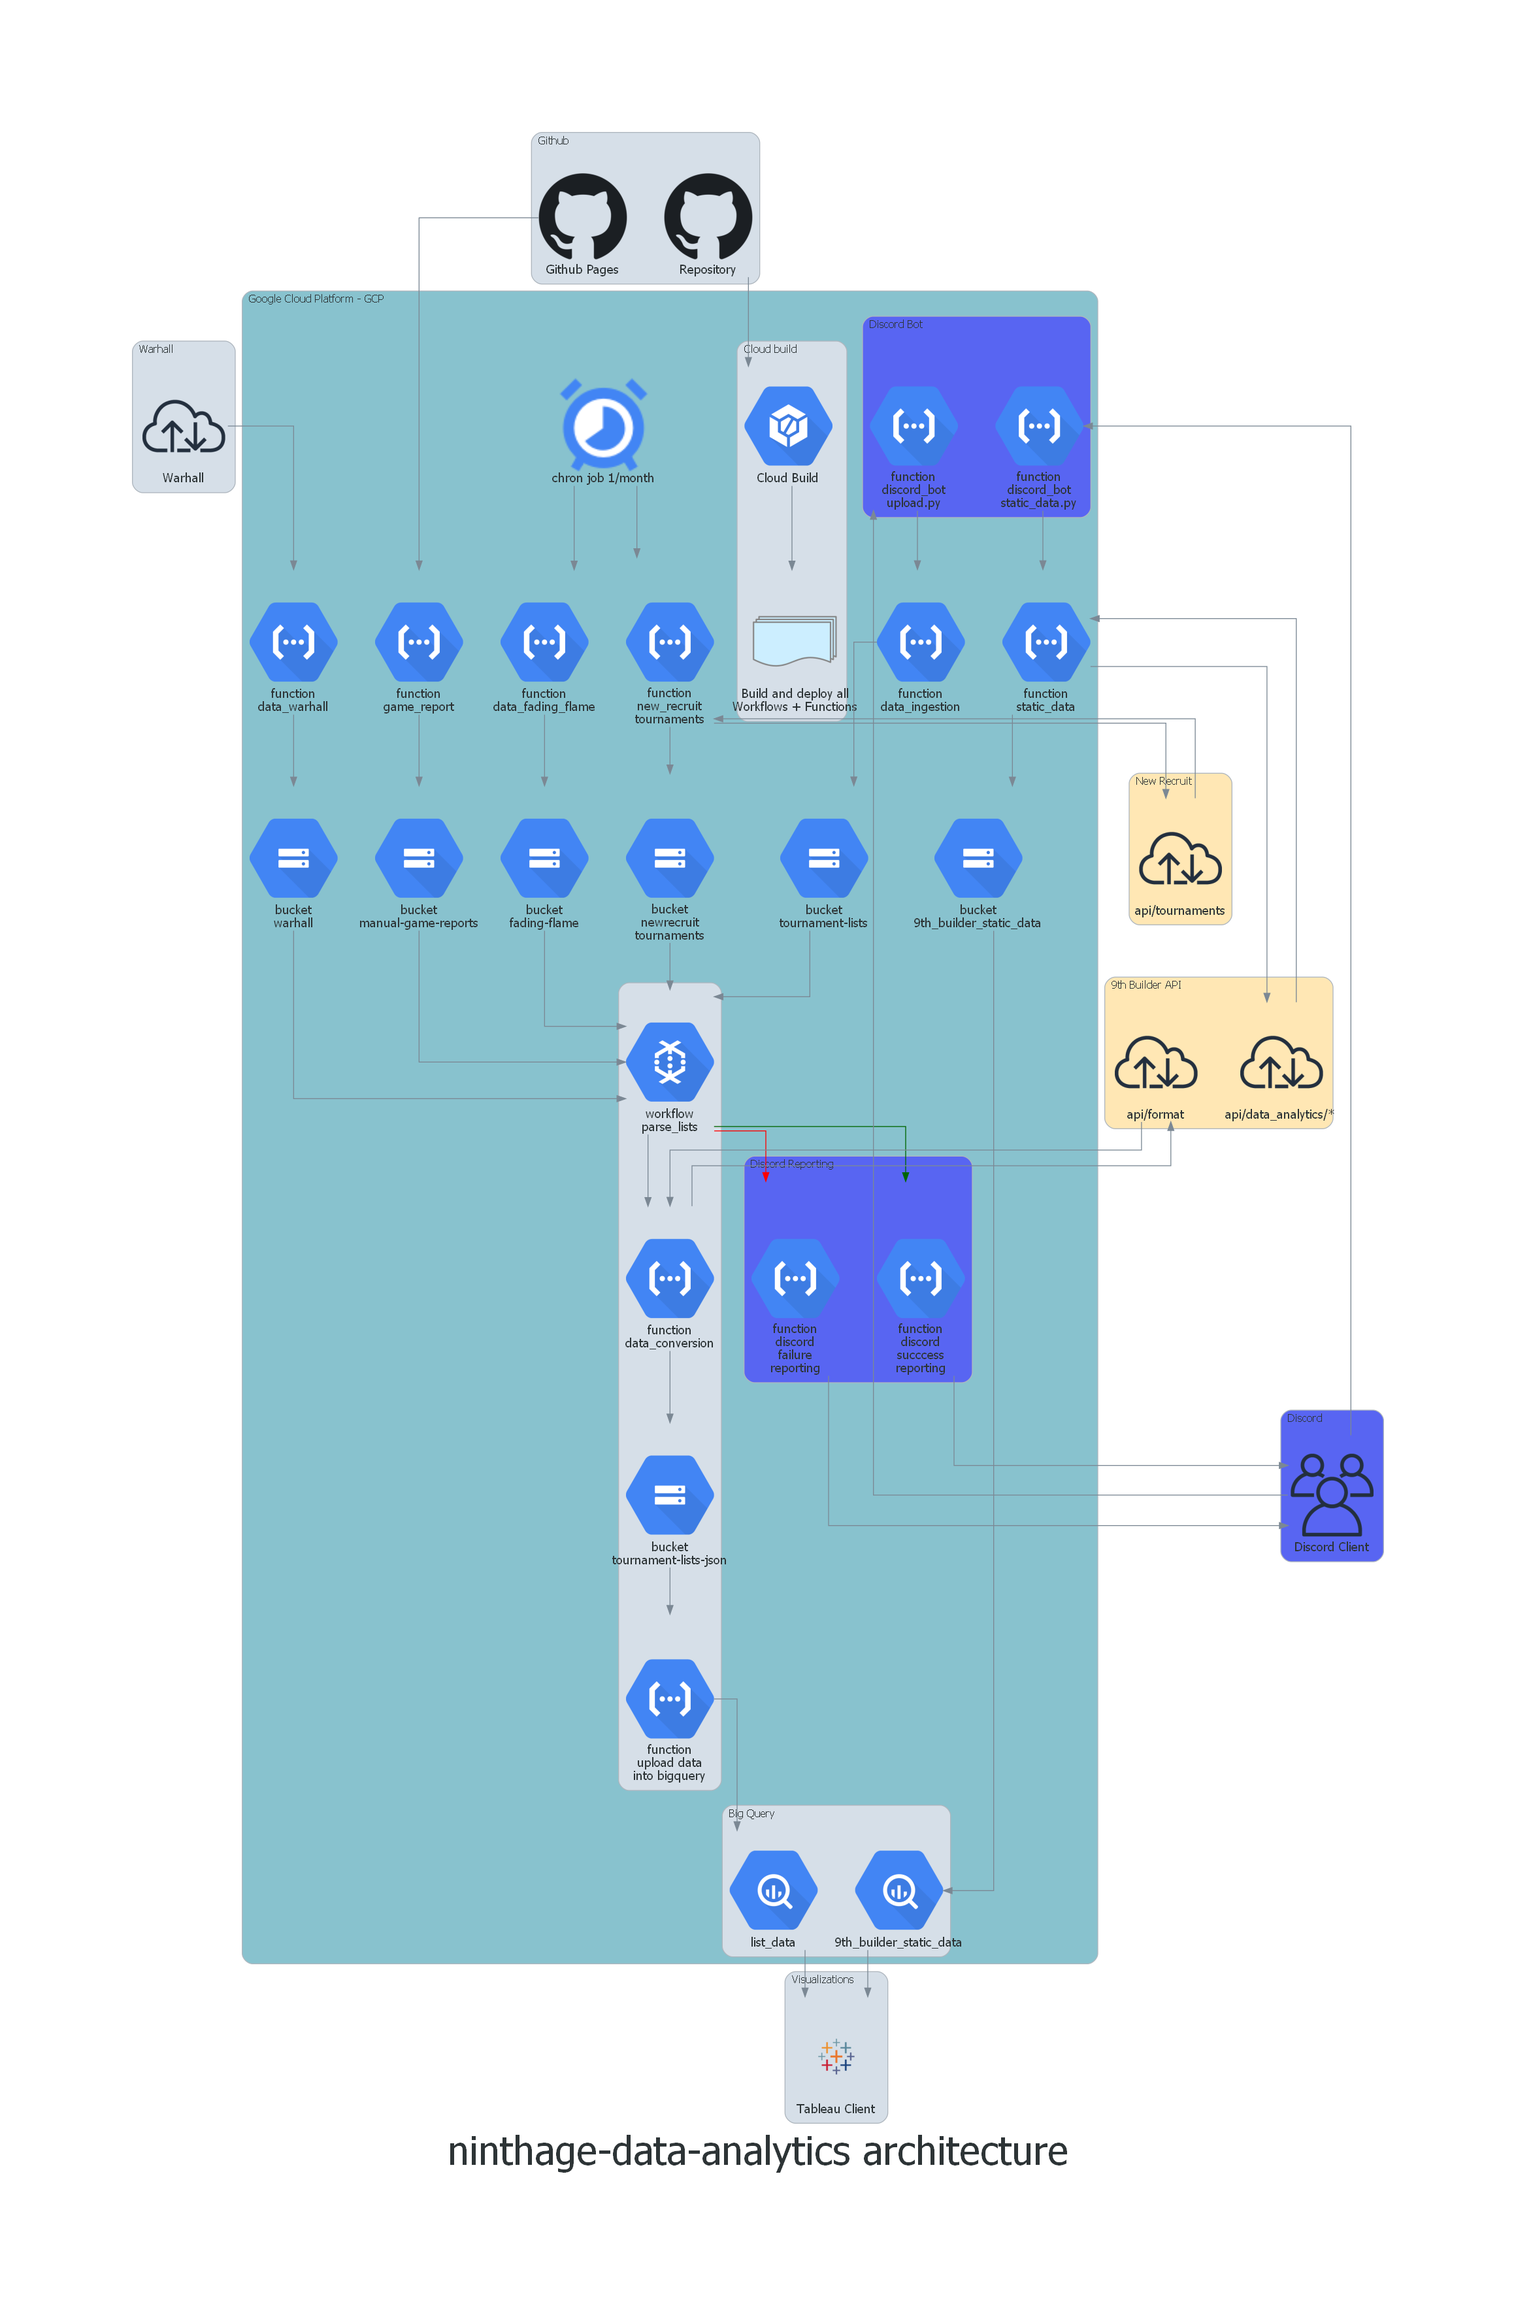
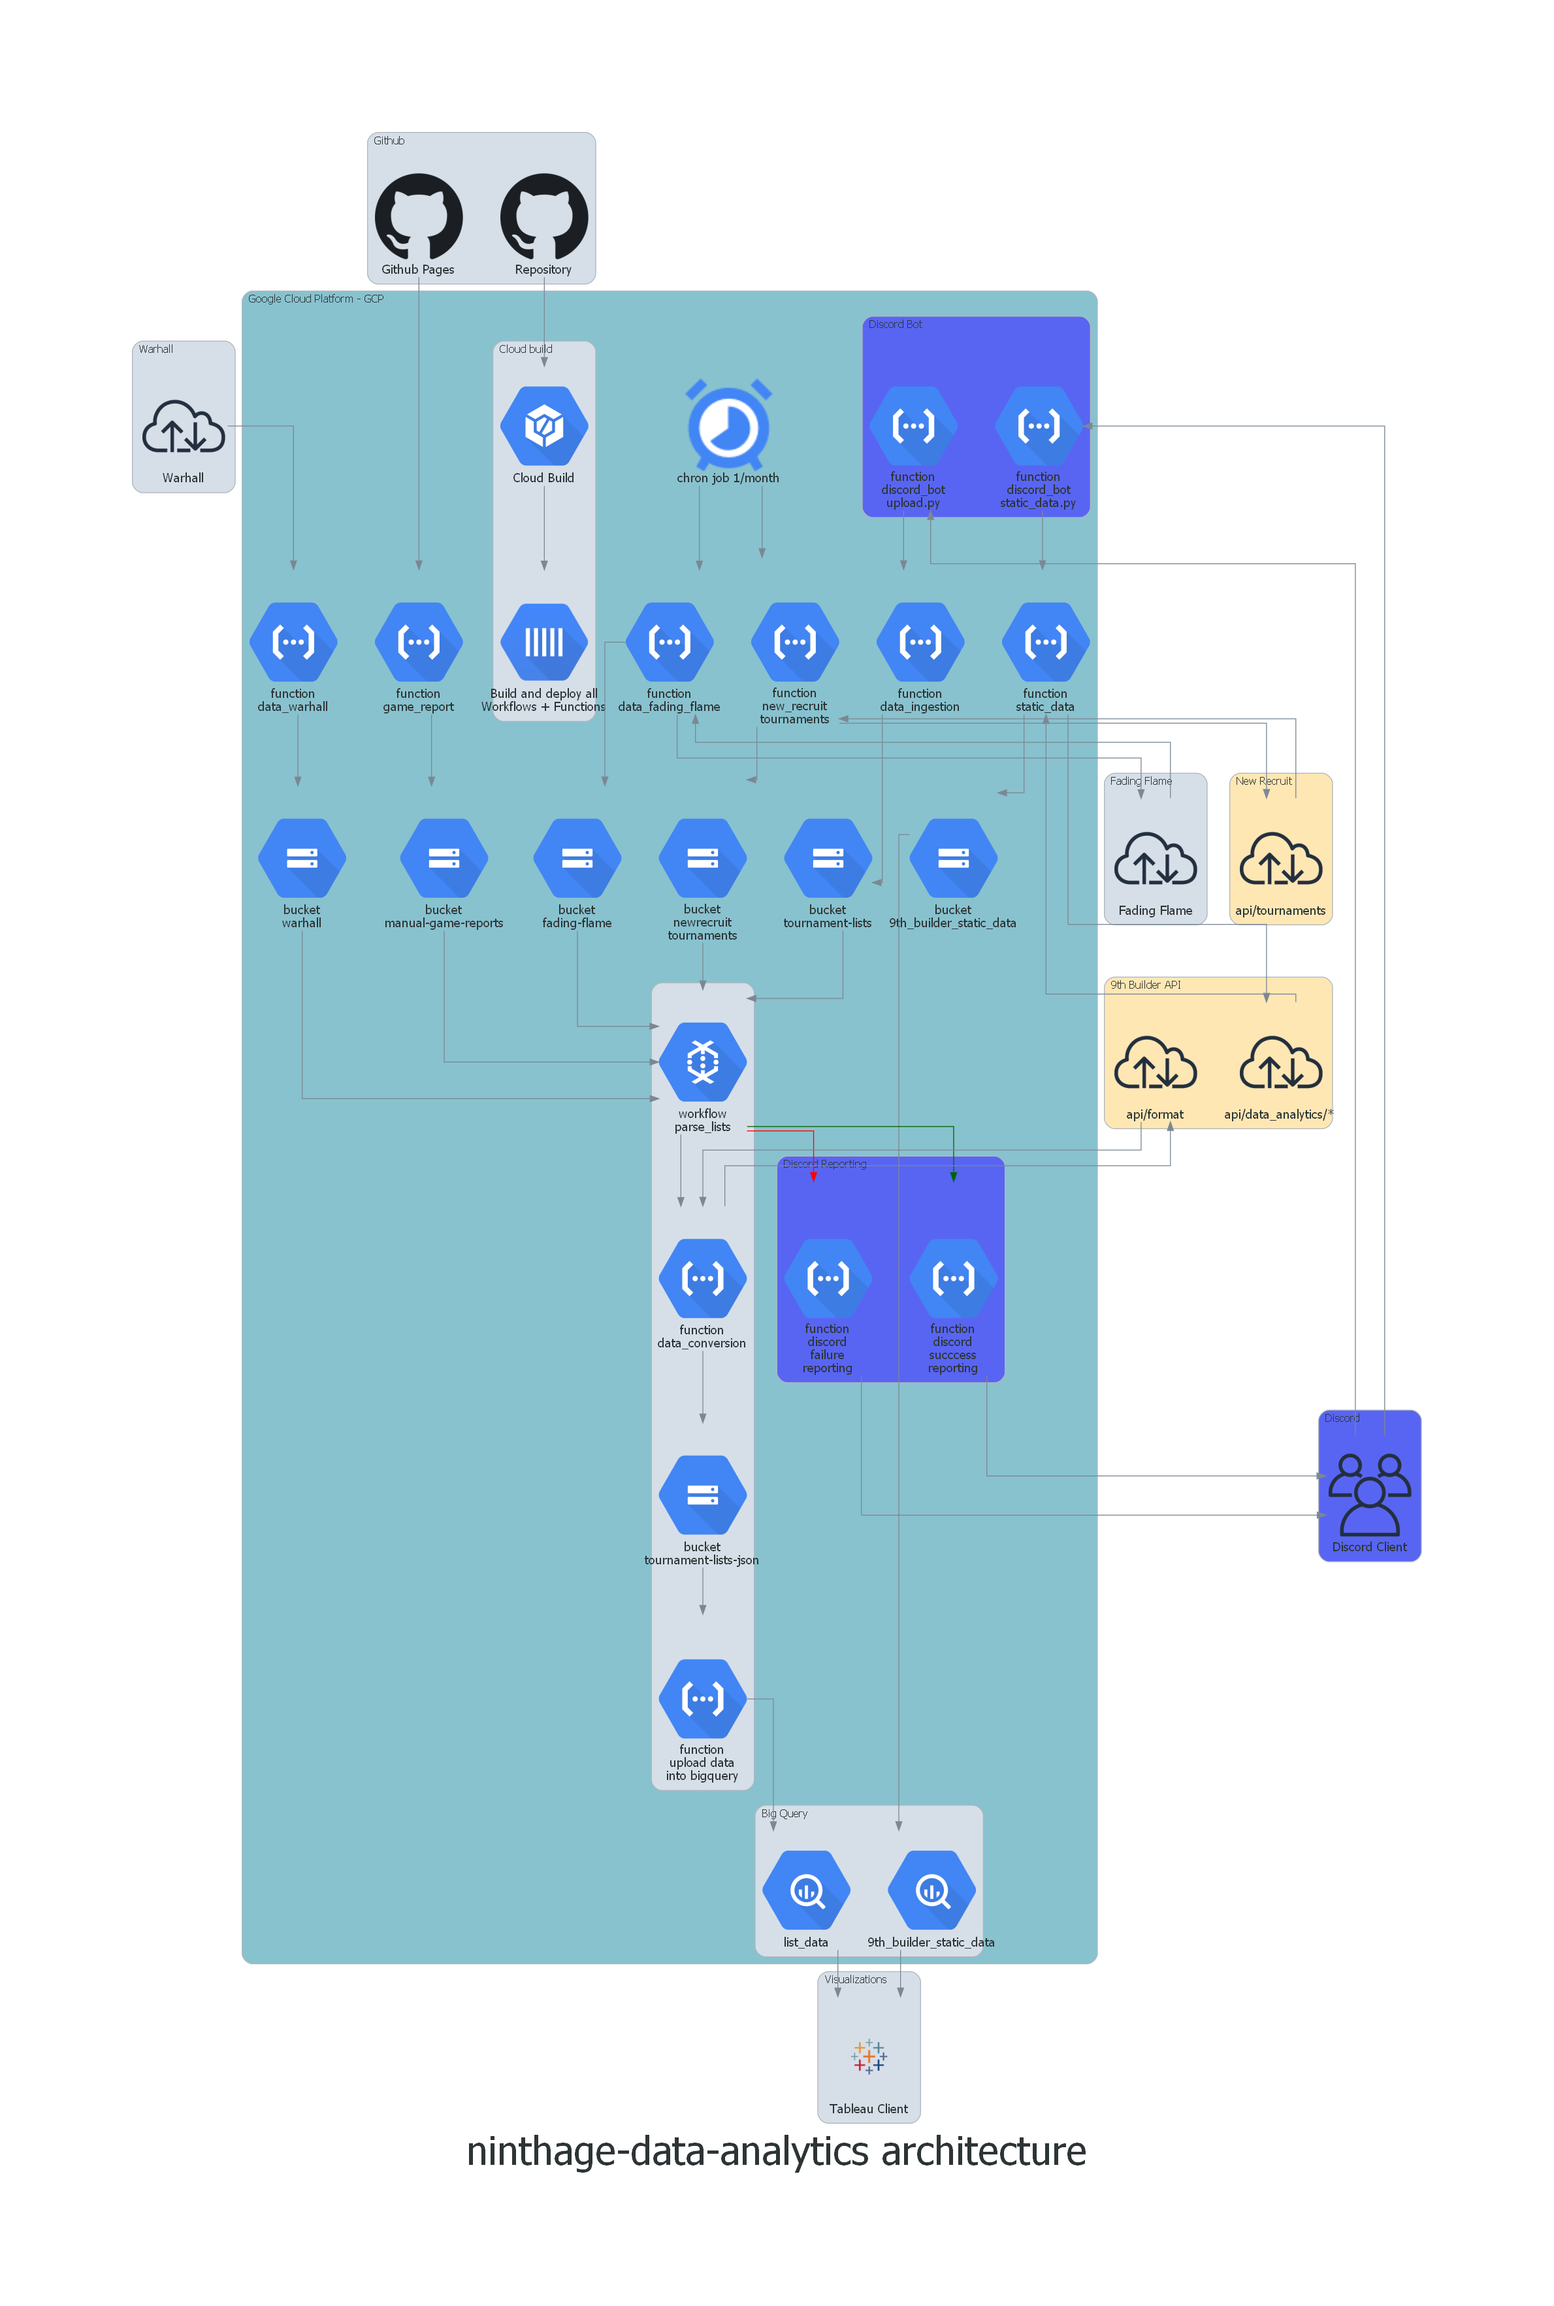
adding in fading flames

diff --git a/architecture/arch-diagram.py b/architecture/arch-diagram.py
@@ -1,13 +1,12 @@
 from diagrams import Cluster, Diagram, Edge
 from diagrams.gcp.analytics import BigQuery, Dataflow
 from diagrams.gcp.compute import Functions
-from diagrams.gcp.devtools import Scheduler, Build
+from diagrams.gcp.devtools import Scheduler, Build, Tasks
 from diagrams.gcp.storage import GCS
 from diagrams.onprem.network import Internet
 from diagrams.onprem.client import Users
 from diagrams.onprem.analytics import Tableau
 from diagrams.onprem.vcs import Github
-from diagrams.programming.flowchart import MultipleDocuments
 
 diag_graph_attr = {
     "fontsize": "45",
@@ -41,7 +40,7 @@ with Diagram("ninthage-data-analytics architecture", show=False, graph_attr=diag
     with Cluster("Google Cloud Platform - GCP", graph_attr=gcp_attr):
         with Cluster("Cloud build", graph_attr=core_attr):
             cloud_build = Build("Cloud Build")
-            build_functions = MultipleDocuments("Build and deploy all\nWorkflows + Functions")
+            build_functions = Tasks("Build and deploy all\nWorkflows + Functions")
 
         # Static Data 
         static_bucket = GCS("bucket\n9th_builder_static_data")
@@ -107,6 +106,9 @@ with Diagram("ninthage-data-analytics architecture", show=False, graph_attr=diag
     with Cluster("Warhall", graph_attr=core_attr):
         warhall = Internet("Warhall")
 
+    with Cluster("Fading Flame", graph_attr=core_attr):
+        fading_flame = Internet("Fading Flame")
+
     with Cluster("Github", graph_attr=core_attr):
         manual_report = Github("Github Pages")
         repo = Github("Repository")
@@ -140,7 +142,7 @@ with Diagram("ninthage-data-analytics architecture", show=False, graph_attr=diag
     BQ_static_data >> tableau_client
 
     # Fading Flame
-    scheduler >> function_data_fading_flame >> fading_flame_bucket >> workflow_parse_lists
+    scheduler >> function_data_fading_flame >> fading_flame >> function_data_fading_flame >> fading_flame_bucket >> workflow_parse_lists
 
     # Warhall
     warhall >> function_warhall_report >> warhall_bucket >> workflow_parse_lists
